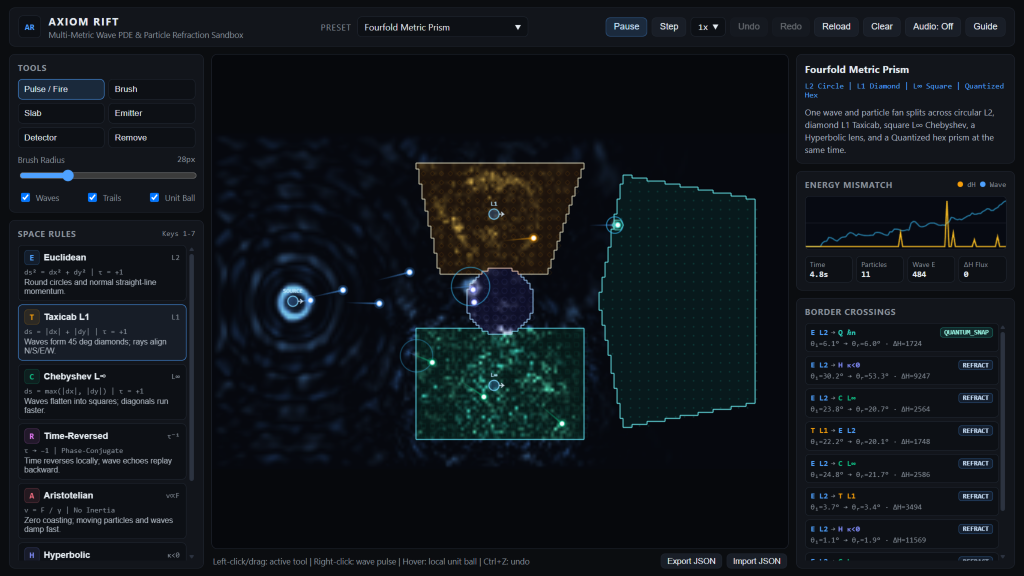
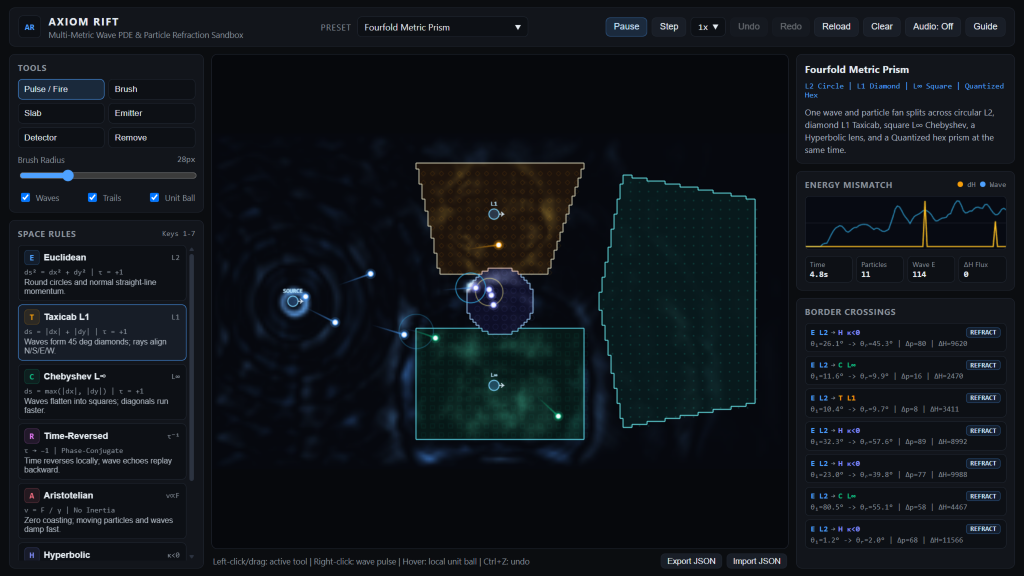
Add quantitative physics tests, Node 20/22 CI, and updated README

diff --git a/README.md b/README.md
@@ -6,7 +6,7 @@ Live demo: https://vaavgit.github.io/axiom-rift/
 
 ![AXIOM RIFT running the Fourfold Metric Prism preset](./assets/screenshot.png)
 
-Instead of painting physical materials like glass or water, you paint different spatial rules onto a `192 x 112` grid. A single wave ripple starts round in Euclidean space, bends into a 45 degree diamond inside a Taxicab ($L_1$) zone, flattens into a square inside a Chebyshev ($L_\infty$) zone, and plays backward out of a Time-Reversed pocket. Crossing borders between rules calculates generalized Snell refraction, flags total internal reflection without walls, and triggers optional WebAudio chimes.
+Instead of painting physical materials like glass or water, you paint different spatial rules onto a `192 x 112` grid. Wave fronts shift shapes per zone (circular in Euclidean space, 45 deg diamonds in Taxicab, axis-aligned squares in Chebyshev, 6-fold hex modulation in Quantized), while particles obey generalized Snell refraction and total internal reflection across borders. Crossing borders between rules sparks visual rings, logs real energy mismatch (`dH`) and momentum recoil (`dp`), and triggers optional WebAudio chimes.
 
 ## Running locally
 
@@ -26,23 +26,23 @@ Because `index.html`, `styles.css`, and `src/` use relative module paths, the ap
 
 ## Space rules
 
-| Rule | Metric / behavior | Effect on waves and particles |
+| Rule | Wave behavior | Particle behavior |
 | :--- | :--- | :--- |
-| Euclidean (`E`) | $ds^2 = dx^2 + dy^2$ | Round circular waves and standard inertial coasting. |
-| Taxicab (`T`) | $ds = |dx| + |dy|$ | Waves spread as 45 deg diamonds; trajectories bend toward cardinal axes. |
-| Chebyshev (`C`) | $ds = \max(|dx|, |dy|)$ | Waves square off; diagonals run faster than orthogonal lines. |
-| Time-Reversed (`R`) | Local $\tau = -1$ | Particles accelerate up to a cap; boundary buffers replay wave frames in reverse. |
-| Aristotelian (`A`) | Overdamped ($v \propto F$) | Motion damps quickly unless pushed, dumping energy mismatch at entry. |
-| Hyperbolic (`H`) | Curved conformal metric | Paths bend along curvature gradients; 45 deg seams cause total internal reflection. |
-| Quantized (`Q`) | Discrete shells (`55, 100, 145, 190`) | Speed snaps to discrete shells and 60 deg hex rays. |
+| Euclidean (`E`) | Isotropic 9-point Laplacian (circular fronts). | Straight-line inertial motion (`L2` norm). |
+| Taxicab (`T`) | Directional curvature operator (`L1` diamond fronts, ~0.71 diag/axis). | Gently aligns trajectories toward cardinal axes (`L1` norm). |
+| Chebyshev (`C`) | Directional curvature operator (`L∞` square fronts, ~1.41 diag/axis). | Gently aligns trajectories toward 45 deg diagonals (`L∞` norm). |
+| Time-Reversed (`R`) | Passive capture/replay boundary half-cycles at borders. | Negative damping up to a speed cap; phase clock runs backward. |
+| Aristotelian (`A`) | Overdamped diffusion; waves damp out quickly. | Strong viscous drag; drops kinetic energy on entry. |
+| Hyperbolic (`H`) | Speed scales with local interior depth of the painted region. | Bends along local conformal depth gradients; causes steep-angle TIR. |
+| Quantized (`Q`) | 6-fold angular speed modulation. | Snaps speed to discrete shells (`55, 100, 145, 190`) and 60 deg rays. |
 
 ## Built-in presets
 
 - **Fourfold Metric Prism**: splits one emitter fan across Euclidean, Taxicab, Chebyshev, Hyperbolic, and Quantized zones.
 - **L1 / L2 Angle Diode**: demonstrates transmission vs 45 deg bounce reflection with zero solid walls.
 - **Border Oscillator**: particles lose energy in an Aristotelian strip and regain it in a Time-Reversed wing inside a Hyperbolic cavity.
-- **Particle Half-Adder**: 1-bit binary addition (`SUM = A XOR B`, `CARRY = A AND B`) using colliding beams and 45 deg Hyperbolic mirrors.
-- **Time-Reversal Echo Cavern**: waves scatter around obstacles and replay back from a Time-Reversed boundary.
+- **Particle Half-Adder**: 1-bit billiard-ball logic demo (`SUM = A XOR B`, `CARRY = A AND B`) using colliding beams and 45 deg Hyperbolic bounce seams.
+- **Time-Reversal Echo Cavern**: waves scatter around obstacles and reflect back from a Time-Reversed boundary half-cycle.
 - **Echo Mandala**: nested concentric rings wired as a generative WebAudio chime loop.
 
 ## Controls
@@ -52,20 +52,21 @@ Because `index.html`, `styles.css`, and `src/` use relative module paths, the ap
 - Right-click anywhere drops an immediate wave ripple.
 - Shortcuts: `Space` (play/pause), `1-7` (pick rule and switch to Brush), `Ctrl+Z` / `Ctrl+Y` (undo/redo paint).
 
-## Known quirks
+## Architecture and known limits
 
-- The 5-pixel grid discretizes angled boundaries into tiny staircase steps, so small 1-cell islands scatter waves noisily rather than refracting cleanly.
-- The Particle Half-Adder relies on synchronized emitter timing (`140 px/s`) so simultaneous `A` and `B` pulses collide at the exact crossing point.
-- Wave Audio starts muted by default because browsers block audio playback until a user click (`Audio: Off`).
+- **Wave and particle layers are one-way coupled**: particles inject wave pulses on strong collisions and boundary crossings, and both share Snell/metric direction rules, but particles do not read radiation pressure back from the wave array. Waves simply switch PDE operators per cell rather than enforcing particle-style Snell jumps.
+- **Time-Reversed mode is an approximation**: rather than solving an ill-posed backward-in-time PDE across the interior, `CHRONO` boundaries passively capture incoming boundary amplitudes for 28 ticks and re-emit them in reverse over the next 28 ticks using convex damping so energy never runs away.
+- **Half-Adder timing**: calibrated for `140 px/s` beams (tested across `+/-10%` emitter speed) rather than arbitrary spatial placement.
+- **Grid resolution**: the 5-pixel grid turns angled borders into tiny staircase steps, so small 1-cell islands scatter waves noisily.
 
 ## Project layout
 
 - `index.html`, `styles.css`: static frontend root for GitHub Pages and local serving
 - `server.mjs`: local Node static server with path containment and CSP headers
-- `src/engine/`: shared simulation modules (`laws.js`, `manifold.js`, `wavefield.js`, `particles.js`, `simulation.js`, `chambers.js`) running identically in Node tests and the browser
+- `src/engine/`: pure ES modules (`laws.js`, `manifold.js`, `wavefield.js`, `particles.js`, `simulation.js`, `chambers.js`) shared by Node tests and the browser
 - `src/audio/synth.js`: procedural WebAudio voice synthesis per destination rule
 - `src/ui/`: canvas renderer, oscilloscope/crossing feed, and UI controller
-- `tests/engine.test.mjs`: tests covering norms, wave geometry, Half-Adder truth table, JSON validation, and HTTP security headers
+- `tests/engine.test.mjs`: quantitative checks for Snell's law, wave aspect ratios, passive decay, local Hyperbolic invariance, Half-Adder truth table, JSON validation, and HTTP security headers
 
 ## License
 
